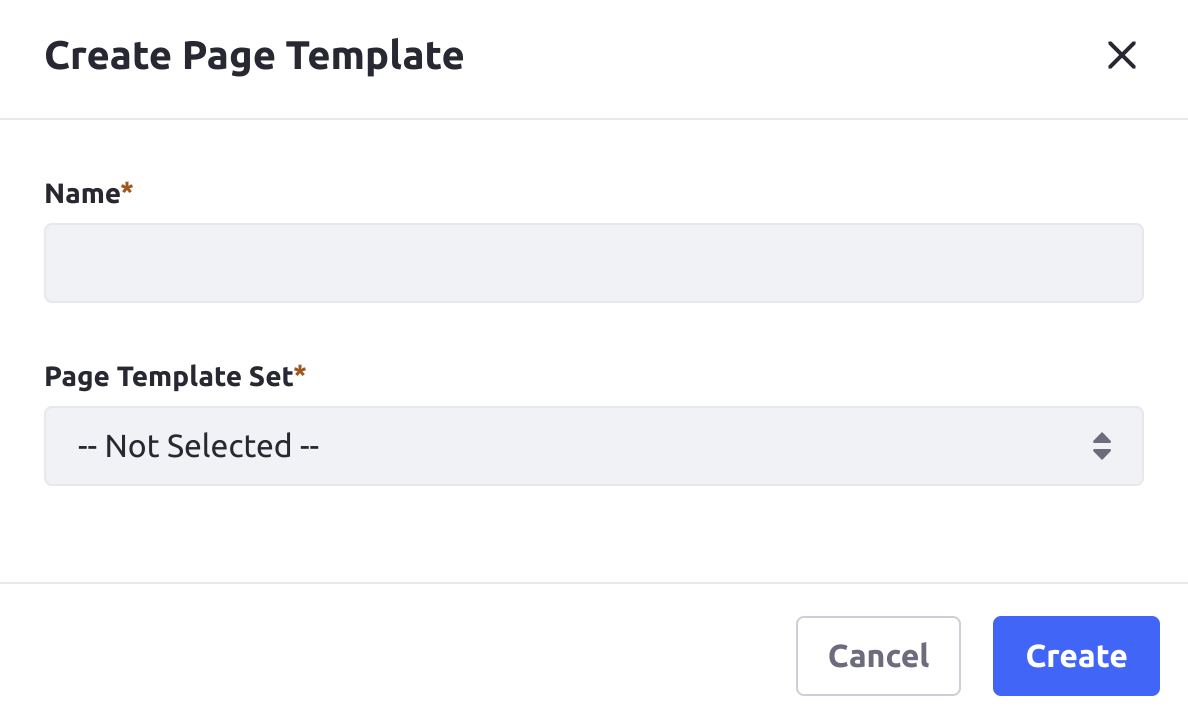
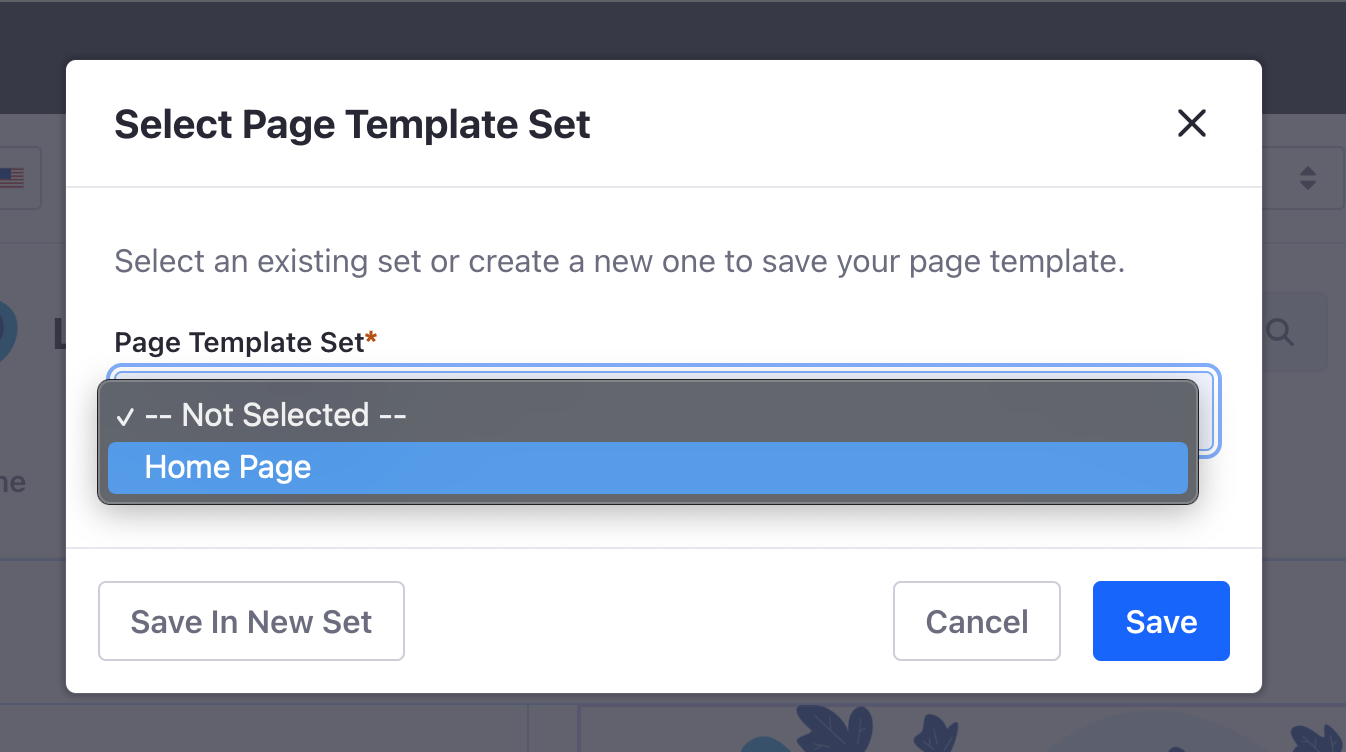
LRDOCS-10856: Updated screenshots, wordsmited and revised instructions and text to reflect updated UI

diff --git a/docs/dxp/latest/en/site-building/creating-pages/adding-pages/creating-a-page-template.md b/docs/dxp/latest/en/site-building/creating-pages/adding-pages/creating-a-page-template.md
@@ -20,39 +20,33 @@ The steps below show how to create and use Widget and Content Page Templates.
 
 1. Select the *Page Templates* tab.
 
-1. Click *New* and create a new Set to organize your Page Templates.
+1. Click *New* and create a new Page Template Set to organize your Page Templates.
 
     ![Creating a new Page Template Set.](./creating-a-page-template/images/02.png)
 
-1. Click the *Add* icon (![Add Page Template](../../../images/icon-add.png)) and select either *Widget Page Template* or *Content Page Template*. You can return to the Page Template's configuration at any time by clicking the *Actions* icon (![Actions](../../../images/icon-actions.png)) next to the Page Template in the Set and selecting *Configure*.
+1. Click the *Plus* icon (![Add Page Template](../../../images/icon-add.png)) and select either *Widget Page Template* or *Content Page Template*. You can edit the Page Template at any time by clicking the *Actions* icon (![Actions](../../../images/icon-actions.png)) next to the Page Template in the Set and selecting *Edit*.
 
 1. Enter a Name.
 
 1. Click *Save*.
 
-1. You're automatically transported to the new Page Template. Follow the instructions in [Widget Pages](../understanding-pages/understanding-pages.md#widget-pages) to create your Widget Page Template. Likewise, see [Building Content Pages](../using-content-pages/adding-elements-to-content-pages.md) to configure your Content Page Template.
+1. You're automatically brought to the new Page Template. Follow the instructions in [Widget Pages](../understanding-pages/understanding-pages.md#widget-pages) to create your Widget Page Template. Likewise, see [Building Content Pages](../using-content-pages/adding-elements-to-content-pages.md) to configure your Content Page Template.
 
 ## Creating a Page Template from an Existing Page
 
 You can also create a Page Template from a page while you are editing it. The new Page Template keeps all of the same configurations for Fragments and widgets when it is created. This saves you time making more templates for pages that you may decide to reuse as you expand your Site.
 
-```{note}
-You must already have a Page Template Set created to create a Page Template from a page to add to it.
-```
-
 Follow these steps to make a Page Template from a page:
 
-1. While editing the page, click the *Create Page Template* button near the top of the screen.
+1. While editing the page, click the *Actions* icon (![Actions](../../../images/icon-actions.png)) and select *Convert to Page Template*
 
-    ![Click Create Page Template to turn the page you are editing into a new Page Template.](./creating-a-page-template/images/03.png) <!--TASK: UPDATE IMG FOR LRDOCS-10856-->
+    ![Click Convert to Page Template in the Actions menu to turn the page you are editing into a new Page Template.](./creating-a-page-template/images/03.png) <!--TASK: UPDATE IMG FOR LRDOCS-10856-->
 
-1. In the modal that appears on the screen, enter a name for the new Page Template.
+1. In the modal that appears on the screen, select an existing page set or select *Save in New Set* to create a new Page Template Set for the Page Template.
 
     ![Here, you can set the basic information for your new Page Template.](./creating-a-page-template/images/04.png)
 
-1. Select the Page Template Set where you're adding the new Page Template.
-
-1. Click Create.
+1. Click Save.
 
 The chosen Page Template Set now has a new Page Template based on the page you are currently editing, as a draft. *You must publish this Page Template draft to use it for new pages.*
 
